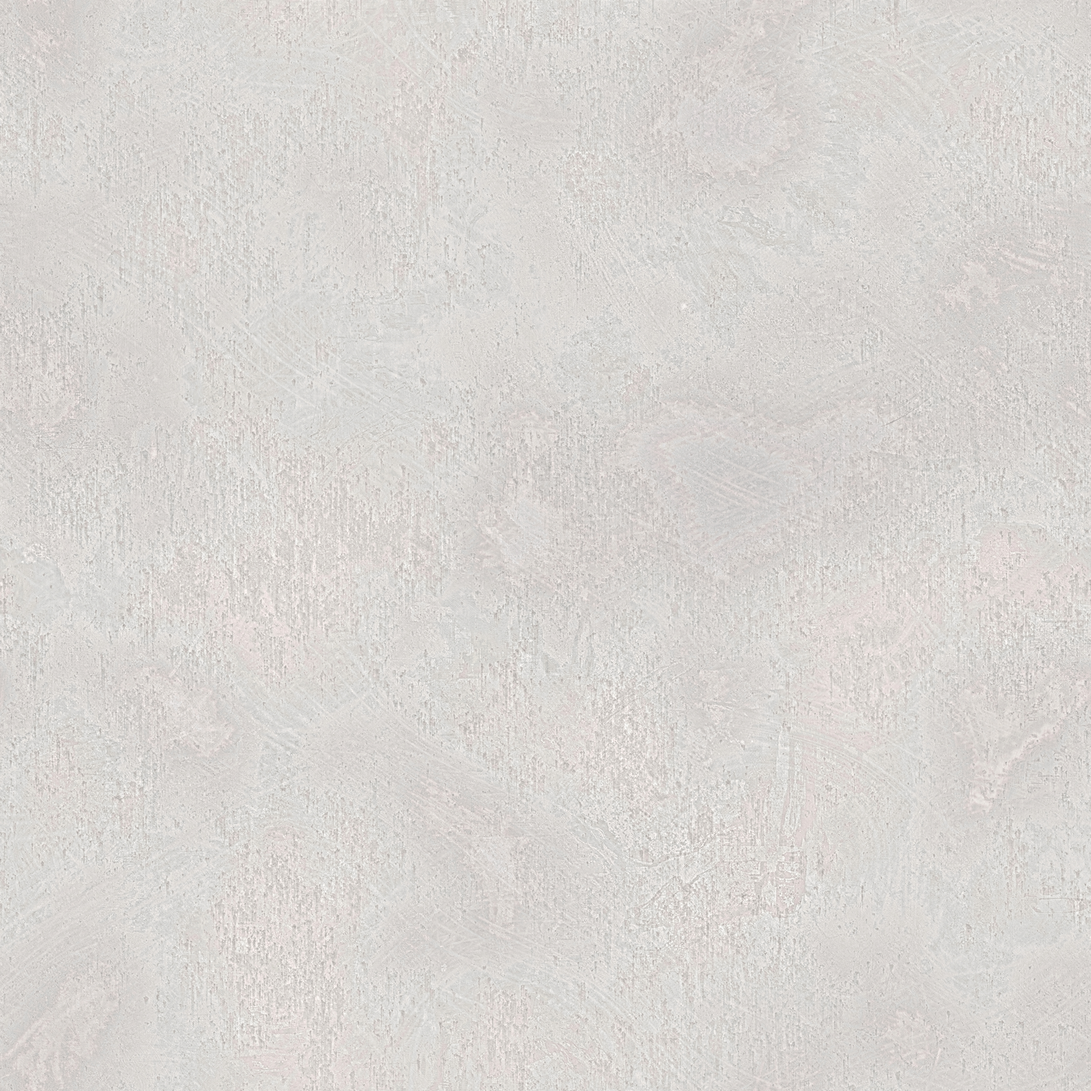
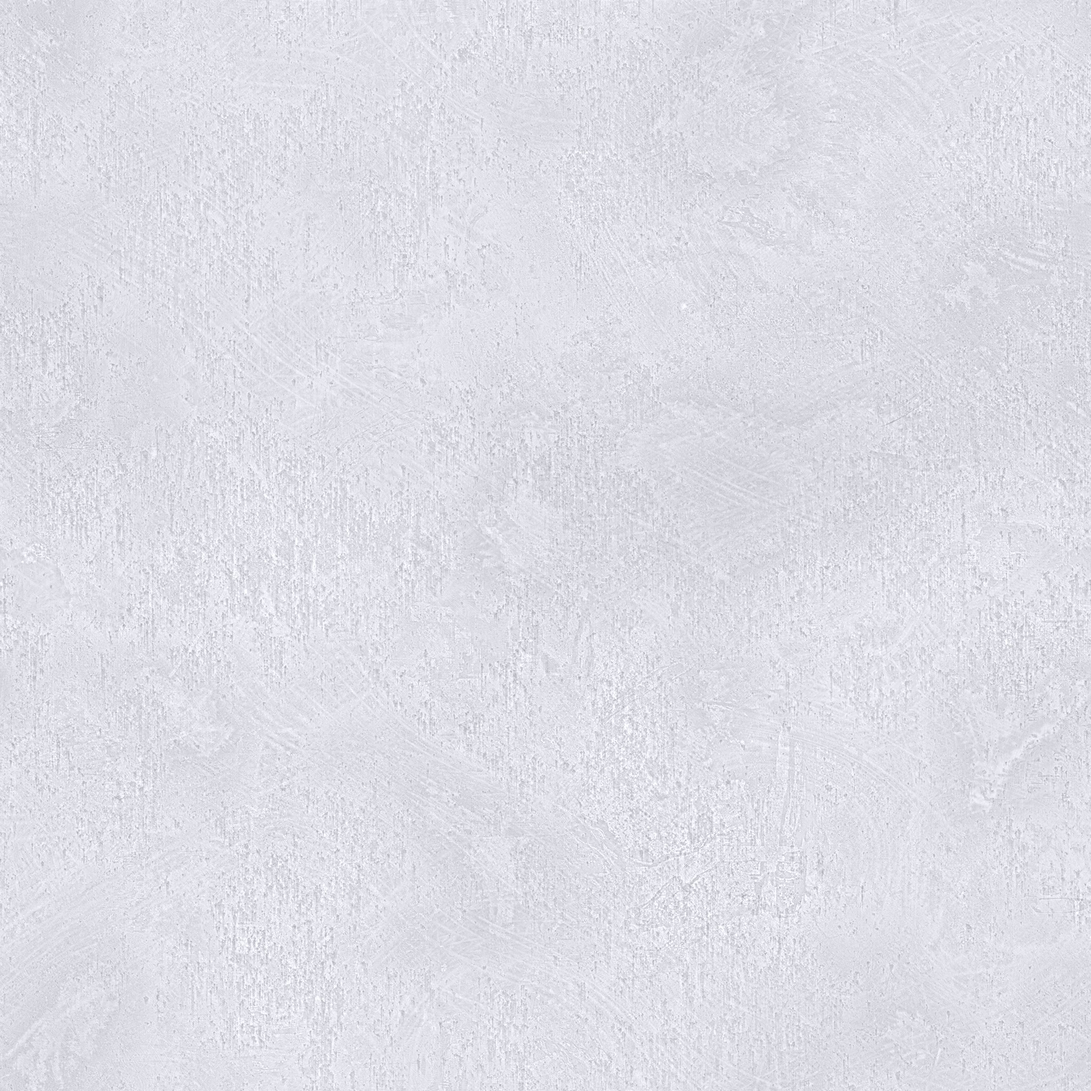
fix(materials): :bug: lighten bundled plaster fallback
Fixes #63

diff --git a/tests/Plateau.ResoniteLink.Tests/Targets/ResoniteMaterialComponentBuilderTests.cs b/tests/Plateau.ResoniteLink.Tests/Targets/ResoniteMaterialComponentBuilderTests.cs
@@ -2,6 +2,9 @@ using Plateau.ResoniteLink.Domain.Importing;
 
 using ResoniteLink;
 
+using SixLabors.ImageSharp;
+using SixLabors.ImageSharp.PixelFormats;
+
 namespace Plateau.ResoniteLink.Tests.Targets;
 
 public sealed class ResoniteMaterialComponentBuilderTests
@@ -151,5 +154,40 @@ public sealed class ResoniteMaterialComponentBuilderTests
         Assert.True(resolved);
         Assert.EndsWith("Plaster002_2K-JPG_Color.jpg", absolutePath, StringComparison.Ordinal);
         Assert.True(File.Exists(absolutePath));
+    }
+
+    [Fact]
+    public void BundledDefaultCityFurnitureAlbedoStaysNearNeutralWhite()
+    {
+        string logicalPath = BundledDefaultMaterialFamilies.GetVariant(BundledDefaultMaterialFamilies.CityFurniture, 0);
+        Assert.True(BundledDefaultMaterialAssetStore.TryGetAbsolutePath(logicalPath, out string absolutePath));
+
+        using Image<Rgba32> image = Image.Load<Rgba32>(absolutePath);
+        double totalR = 0.0;
+        double totalG = 0.0;
+        double totalB = 0.0;
+        int sampleCount = 0;
+
+        for (int y = 0; y < image.Height; y += 32)
+        {
+            for (int x = 0; x < image.Width; x += 32)
+            {
+                Rgba32 pixel = image[x, y];
+                totalR += pixel.R;
+                totalG += pixel.G;
+                totalB += pixel.B;
+                sampleCount++;
+            }
+        }
+
+        double averageR = totalR / sampleCount;
+        double averageG = totalG / sampleCount;
+        double averageB = totalB / sampleCount;
+
+        Assert.InRange(averageR, 210.0, 255.0);
+        Assert.InRange(averageG, 210.0, 255.0);
+        Assert.InRange(averageB, 210.0, 255.0);
+        Assert.True(averageR - averageB <= 3.5, $"Expected city-furniture albedo to stay near neutral white, but sampled RGB was {averageR:F1}/{averageG:F1}/{averageB:F1}.");
+        Assert.True(averageG - averageB <= 3.5, $"Expected city-furniture albedo to stay near neutral white, but sampled RGB was {averageR:F1}/{averageG:F1}/{averageB:F1}.");
     }
 }

diff --git a/src/Plateau.ResoniteLink/Targets/Resonite/BundledDefaultMaterialAssetStore.cs b/src/Plateau.ResoniteLink/Targets/Resonite/BundledDefaultMaterialAssetStore.cs
@@ -13,7 +13,8 @@ internal static class BundledDefaultMaterialAssetStore
     private static readonly string DefaultExtractionRoot = Path.Combine(
         Path.GetTempPath(),
         "Plateau.ResoniteLink",
-        "default-materials");
+        "default-materials",
+        Assembly.ManifestModule.ModuleVersionId.ToString("N"));
 
     public static string GetAbsolutePath(string logicalPath)
     {
